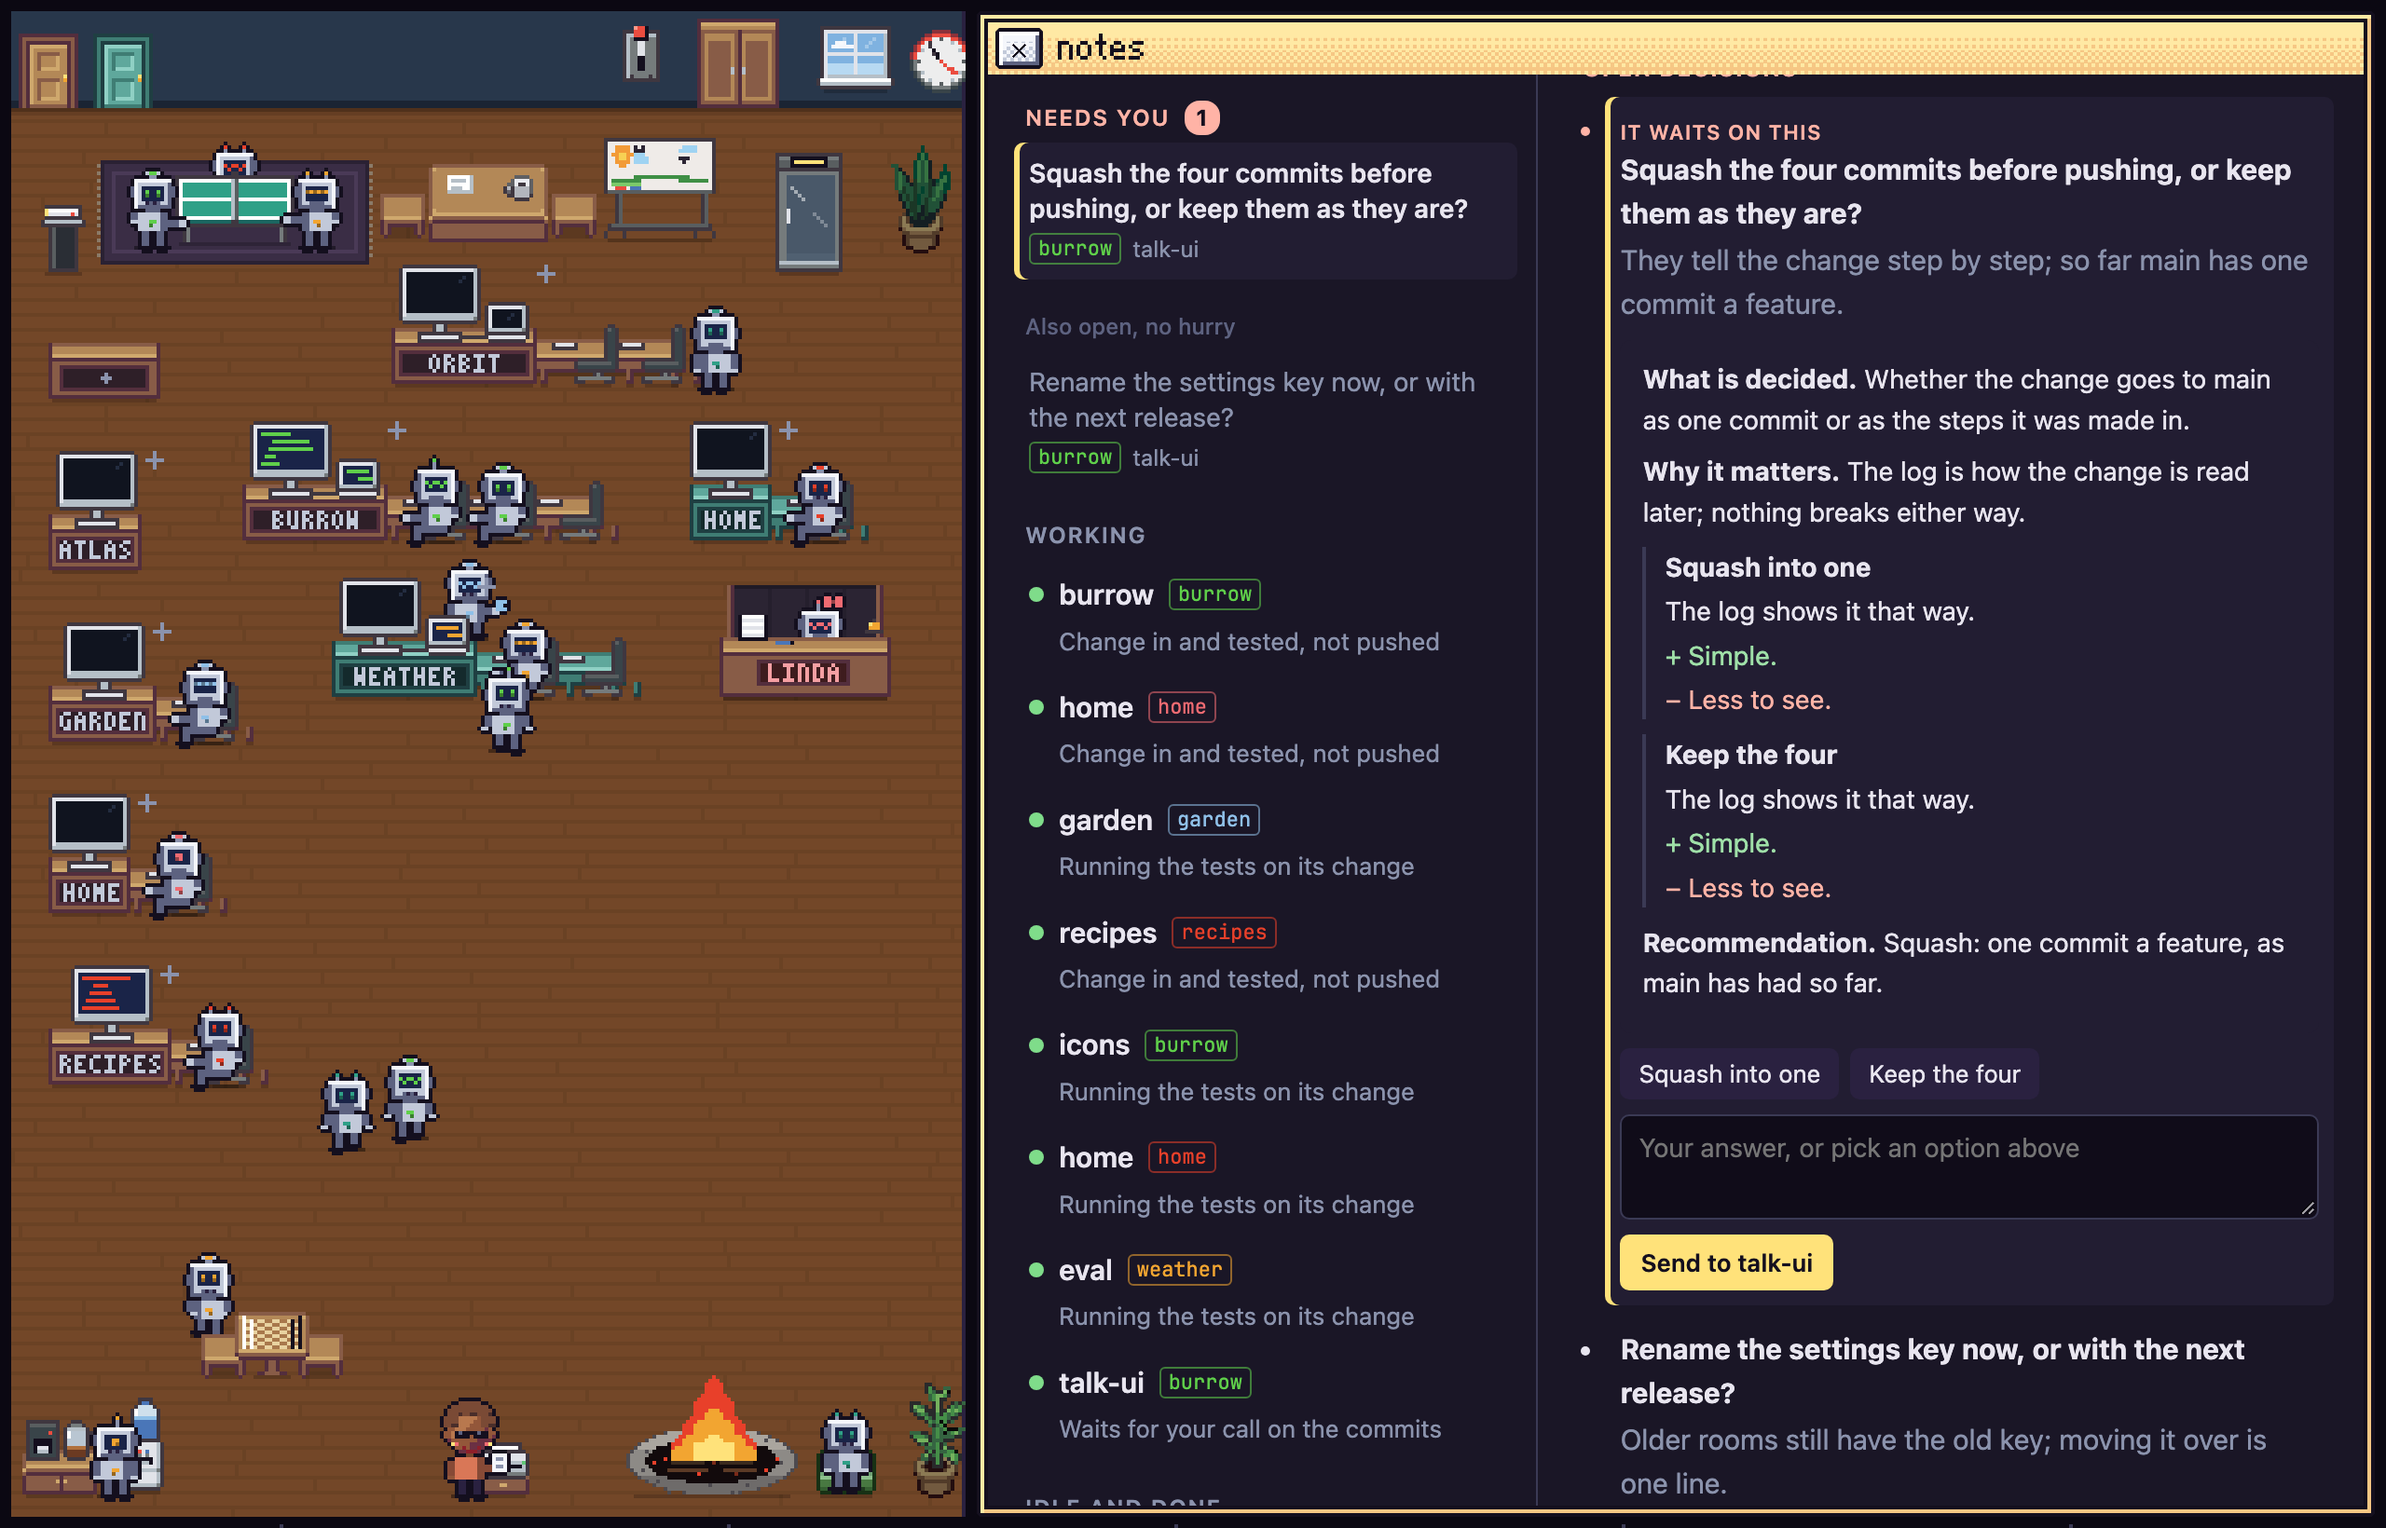
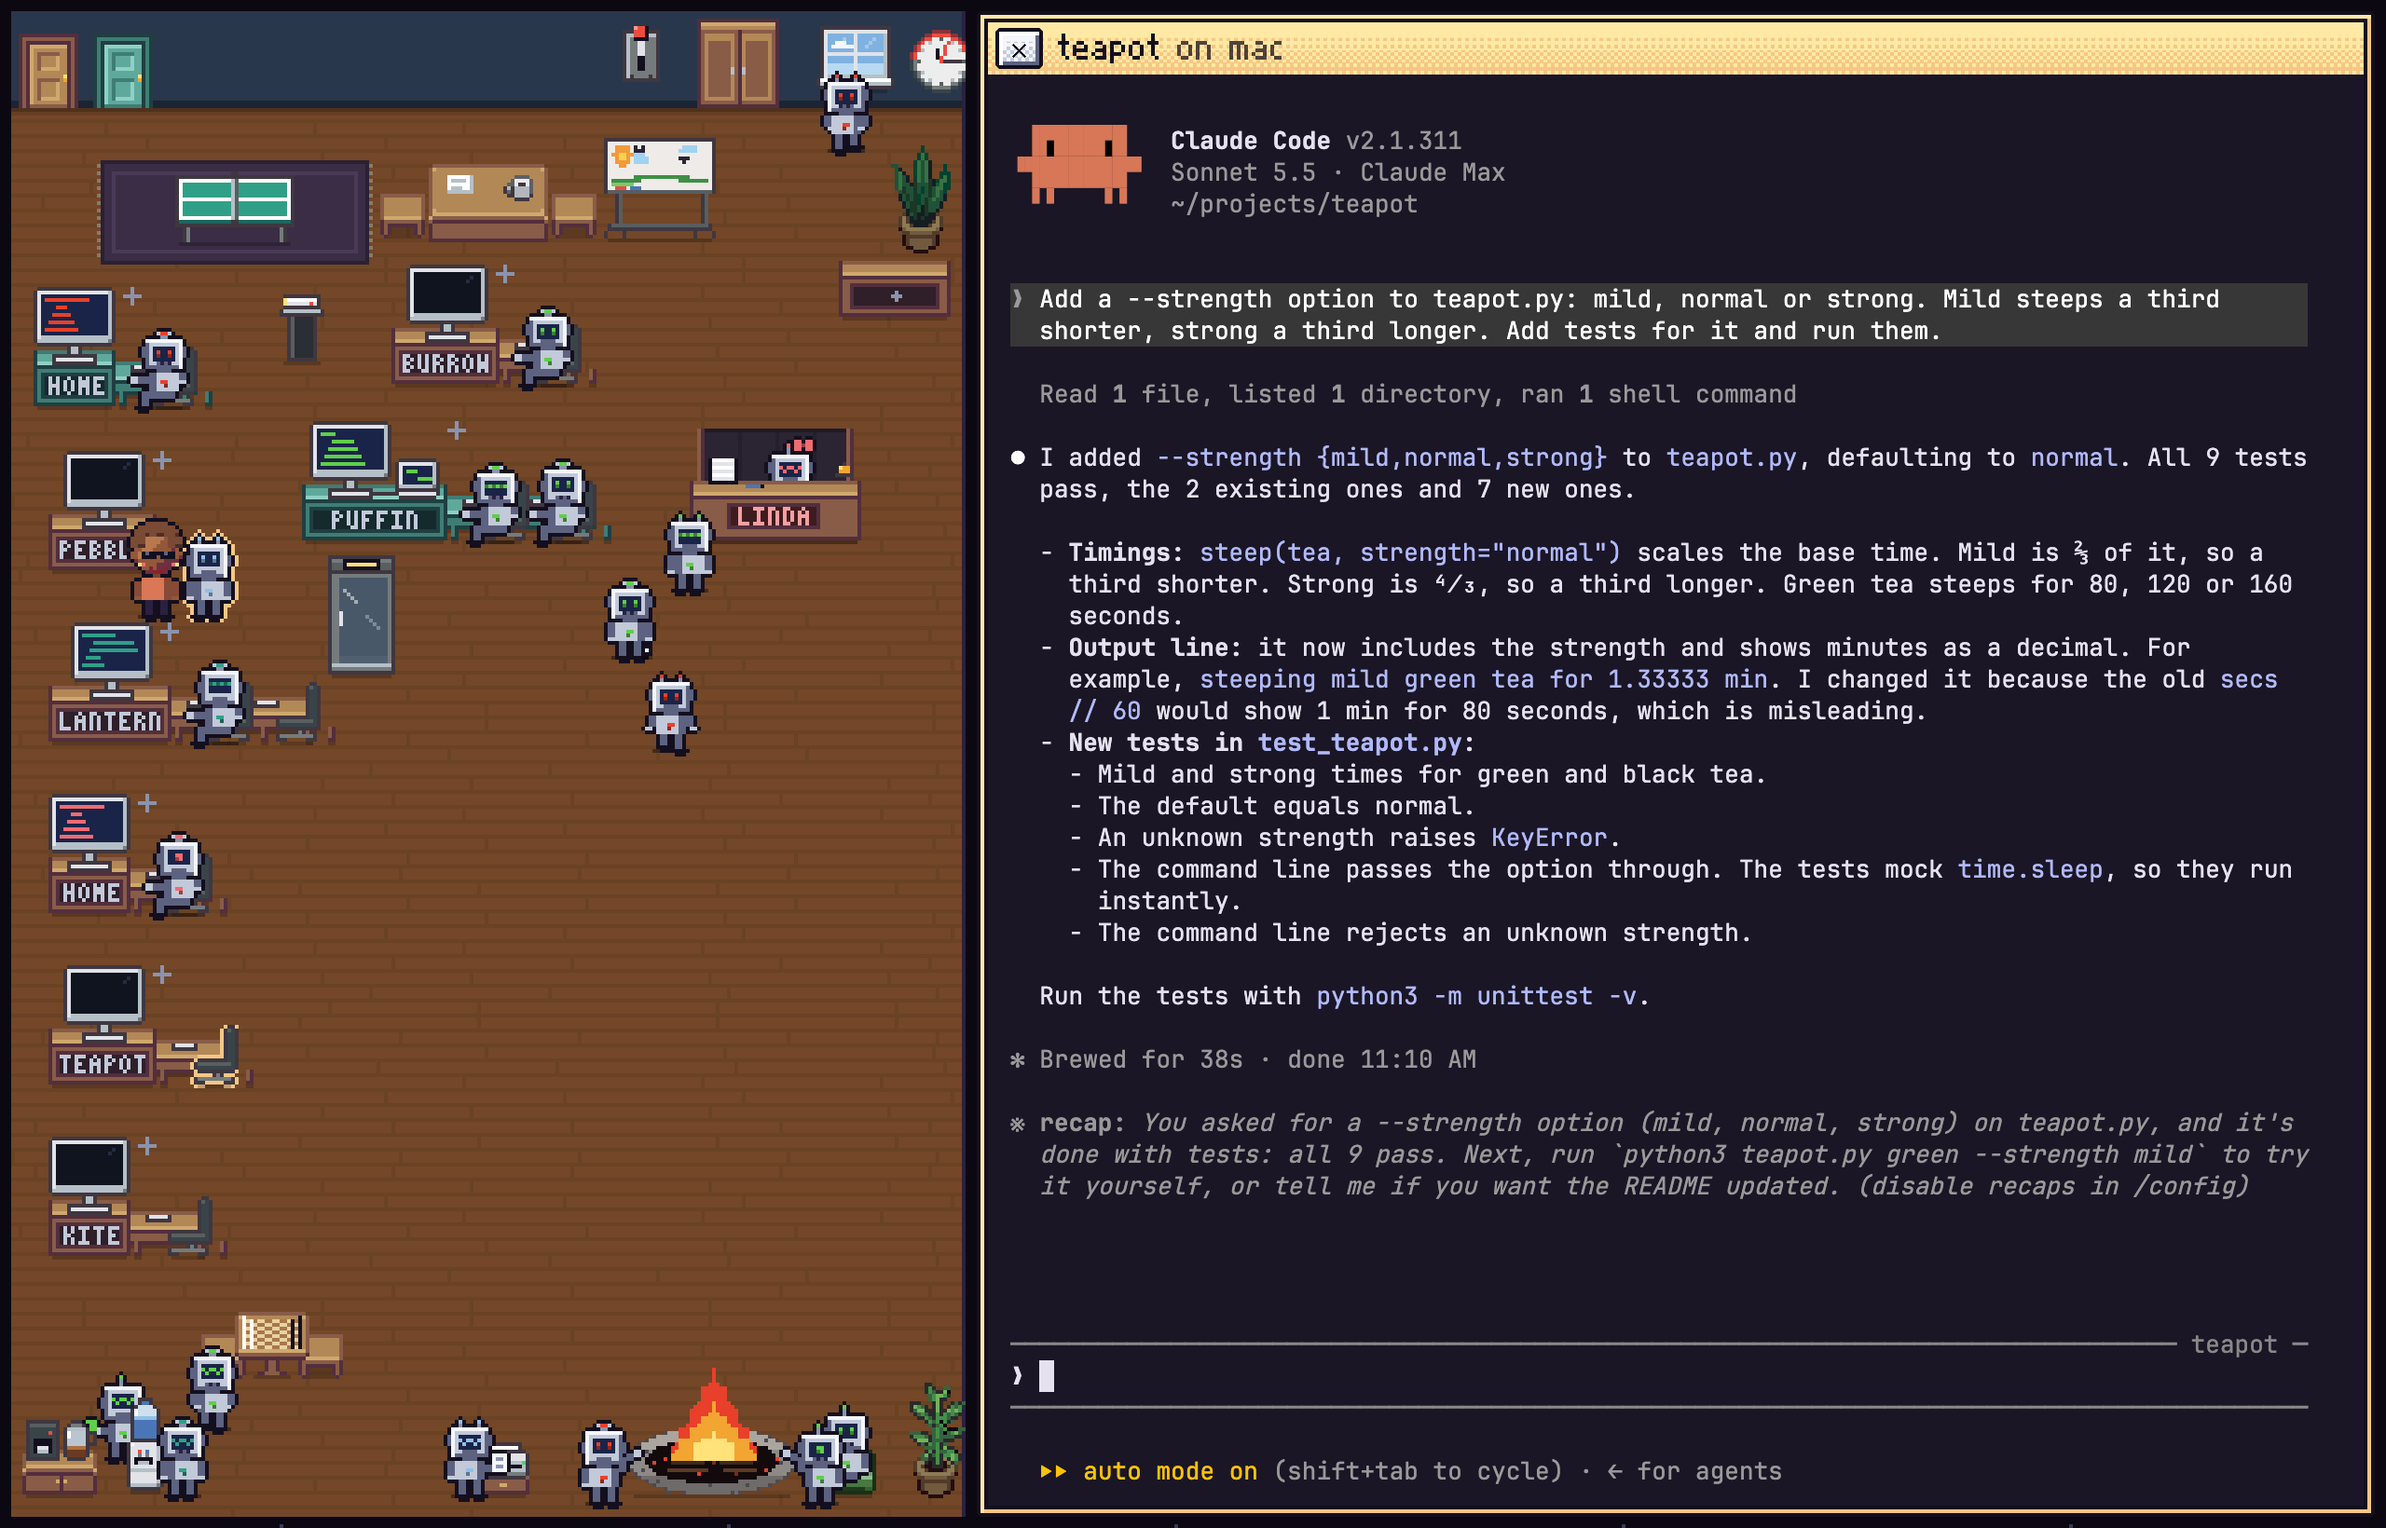
The README's first picture is a plain Claude Code session beside the room, not the notes. The demo's names are checked against all three machines now: atlas was a project on another machine of the user's, so the demo's projects are kite, teapot, lantern, pebble and puffin, and two finished sessions 
Claude-Session: https://claude.ai/code/session_015GCqgrD6qfPkBJ7zH8rBEX

diff --git a/web/burrow.css b/web/burrow.css
@@ -58,7 +58,9 @@ button, input, select { font:inherit; color:inherit; }
 .resizing-row, .resizing-row * { cursor:col-resize !important; }   /* a gap being dragged: the cursor stays, the terminals under it are left alone */
 .resizing-col, .resizing-col * { cursor:row-resize !important; }
 .resizing-row .tile, .resizing-col .tile { pointer-events:none; user-select:none; }
-.term { flex:1; min-height:0; padding:10px 12px 8px 12px; }   /* the text keeps off the ring (the fit addon takes the padding off) */
+/* the text keeps off the ring. Content-box: the fit addon takes this box's computed size as the room the terminal has
+   (with border-box that included the padding, and the last row and a column or two went under the edge) */
+.term { flex:1; min-height:0; padding:10px 12px 8px 12px; box-sizing:content-box; }
 .term .xterm-viewport { background:transparent !important; }
 .term .xterm-viewport::-webkit-scrollbar { width:8px; }
 .term .xterm-viewport::-webkit-scrollbar-thumb { background:var(--ink2); }

diff --git a/web/server.py b/web/server.py
@@ -27,6 +27,8 @@ CACHE = os.path.join(HOME, ".cache/burrow")
 DEMO = bool(os.environ.get("BURROW_DEMO"))
 DEMO_GONE = set()                              # the demo's doors taken out (it never writes the settings)
 DEMO_ADDED = []                                # and the ones hung up from the closet
+# a real session of this computer behind a demo bot's terminal, for pictures: BURROW_DEMO_REAL=demo0005=<session id>
+DEMO_REAL = dict(x.split("=", 1) for x in os.environ.get("BURROW_DEMO_REAL", "").split(",") if "=" in x)
 PORT = int(os.environ.get("BURROW_PORT", "7777"))
 HOSTNAME = subprocess.run(["hostname", "-s"], capture_output=True, text=True).stdout.strip() or "here"
 USER = getpass.getuser()                       # you, in the room: the name unless room.json has one
@@ -626,7 +628,7 @@ def load_room():
     if DEMO:                                 # made up, or a copy of a real room.json to try things on (never saved)
         if os.environ.get("BURROW_DEMO_ROOM"):
             return furnish({"desks": [], "layout": {}, **json.load(open(os.environ["BURROW_DEMO_ROOM"]))})
-        return furnish({"desks": [HOME + "/projects/atlas"], "layout": {}})
+        return furnish({"desks": [HOME + "/projects/pebble"], "layout": {}})
     try:
         return furnish({"desks": [], "layout": {}, **json.load(open(ROOM))})
     except Exception:
@@ -1530,10 +1532,10 @@ class Hub:
 
     def demo(self, mid, poke):
         i = list(self.machines).index(mid)
-        bots = [("burrow", "burrow"), ("burrow", "talk-ui"), ("burrow/.claude/worktrees/icons", "icons"), ("orbit", "orbit"),
-                ("orbit/.claude/worktrees/moons", "moons"), ("recipes", "recipes"), ("", "home"), ("garden", "garden")]
+        bots = [("burrow", "burrow"), ("burrow", "talk-ui"), ("burrow/.claude/worktrees/icons", "icons"), ("kite", "kite"),
+                ("kite/.claude/worktrees/tails", "tails"), ("teapot", "teapot"), ("", "home"), ("lantern", "lantern")]
         if i == 1:
-            bots = [("weather", "weather"), ("weather/.claude/worktrees/eval", "eval"), ("", "home")]
+            bots = [("puffin", "puffin"), ("puffin/.claude/worktrees/eval", "eval"), ("", "home")]
         self.usage = {"session": {"used": 64, "resets": "3:20pm"}, "week": {"used": 23, "resets": "Oct 24 at 9am"}}
         now = int(time.time() * 1000)
         bots = [{"id": f"demo{i}{k:03}", "name": n, "cwd": f"{HOME}/projects/{d}" if d else HOME, "busy": k % 3 == 0, "waiting": k % 5 == 1,
@@ -1542,10 +1544,10 @@ class Hub:
                 for k, (d, n) in enumerate(bots)]
         bots[-1].update(alive=False, busy=True, state="working", pid=0)      # a /loop between runs: its process is off
         # and some that are over: done, failed, stopped, as agent view's Completed group
-        over = [("burrow", "tidy-tess", "done", "the booth built and tested"), ("orbit", "zany-zoe", "failed", "a moon got out of its orbit"),
-                ("recipes", "posh-pam", "stopped", ""), ("burrow", "merry-max", "done", "README brought up to date"), ("garden", "lucky-lou", "done", "the planting calendar rebuilt")]
+        over = [("burrow", "sunny-sam", "done", "the booth built and tested"), ("kite", "zany-zoe", "failed", "the string snapped in the wind test"),
+                ("teapot", "posh-pam", "stopped", ""), ("burrow", "merry-max", "done", "README brought up to date"), ("lantern", "jolly-jo", "done", "the docs rebuilt")]
         if i == 1:
-            over = [("weather", "nimble-ned", "done", "forecast run 12 scored, the report in out/"), ("weather", "witty-wes", "failed", "CUDA out of memory on the big batch")]
+            over = [("puffin", "nimble-ned", "done", "run 12 scored, the report in out/"), ("puffin", "witty-wes", "failed", "CUDA out of memory on the big batch")]
         bots += [{"id": f"demo{i}over{k}", "name": n, "cwd": f"{HOME}/projects/{d}", "busy": False, "waiting": False, "alive": False, "state": st,
                   "over": st, "endedAt": now - 1800000 * (k + 1), "detail": det, "started": now - 1800000 * (k + 3), "pid": 0, "session": f"demo{i}o{k}", "rc": ""}
                  for k, (d, n, st, det) in enumerate(over)]
@@ -2158,6 +2160,8 @@ class Handler(BaseHTTPRequestHandler):
         m = hub.machines.get(q.get("m", ""))
         if DEMO and REAL_OFFICE and q.get("id") and q["id"] in {m.get("id") for m in (hub.room.get("managers") or {}).values()}:
             m = LOCAL                          # the demo's office manager is real
+        if DEMO and not shell and q.get("id") in DEMO_REAL:
+            m, q = LOCAL, {**q, "id": DEMO_REAL[q["id"]]}
         if not m:
             return self.reply(404, {"error": "no such machine"})
         if not key or not q.get("dir" if shell else "id"):

diff --git a/CLAUDE.md b/CLAUDE.md
@@ -1658,17 +1658,32 @@ long one of "README with pictures".
 - **The demo was not his-free**: it read his real notes (`digest.json`; a desk's paragraph is keyed by directory, and
   the demo's `~/projects/burrow` is his), its projects were four real folders of his (romuald, hexant, football,
   website), its second machine was named odyssey. Now `load_digest()` is empty in the demo (demo_notes makes them
-  up), the projects are made up (orbit, recipes, garden, atlas, weather; burrow stays, it is this repo), the machine
-  is "lab", and the made-up notes no longer ask about the bench. Still real in the demo: `~` itself (its paths show
-  as `~/…`), the login name (YOU panel only), `~/.ssh/config` and Claude Code's recent directories in the forms.
+  up), the projects are made up, the machine is "lab", and the made-up notes no longer ask about the bench. Still
+  real in the demo: `~` itself (its paths show as `~/…`), the login name (YOU panel only), `~/.ssh/config` and
+  Claude Code's recent directories in the forms.
+- **Made-up is not enough**: he, at once: "You put atlas on the readme?? I said don't put antyhing personal there???"
+  odyssey has `~/super-atlas`; I had checked the names against this Mac's `~/projects` only. The demo's names are
+  now kite, teapot, lantern, pebble, puffin (and burrow), checked against `ls ~ ~/projects ~/.claude/projects` on all
+  three machines (ssh, read-only); tidy-tess and lucky-lou, real sessions of his, are sunny-sam and jolly-jo. Check
+  every name that goes into a picture the same way.
 - **The notes named the home desk after the user** (the folder's last name): `deskName` now says "home", as the
   room's `projectLabel` does.
-- **The pictures** (1280 x 820 through look.mjs, demo on its own port): the hero is the room with Linda's notes
-  open on a waiting session, its decision explained (a real session's tile would show Claude Code's own header with
-  the account); `room.png` the top of the room at device pixels (`clip`), staged: a `waiting` forced on a bot (the
-  defineProperty trick), a nap (`act {kind: "sleep"}`), you kept aside by an interval, `room.talk` fired 0.38 s
-  before each of six shots and the best one kept (a beam is a dash in flight); the closet and the limits are the
-  `#view` panel clipped (`clipTo` its rect).
+- **Every terminal was 18 px too tall and 24 px too wide** (seen in the hero: Claude Code's status line half under the
+  tile's edge). `* { box-sizing: border-box }` made `.term`'s computed size include its padding, and the fit addon
+  takes the parent's computed size and subtracts only the `.xterm` element's own padding (0). `.term` is
+  `box-sizing: content-box` now; measured: the screen ends 10 px inside the tile at the bottom, 29 px at the right.
+  (The 2026-10-24 note "the fit addon takes it off the parent's size, so nothing is cut" was wrong since then.)
+- **The pictures** (1280 x 820 through look.mjs, demo on its own port). The hero is a plain Claude Code session in a
+  tile ("Do not use the notes as the first printscreen, that's already very specialized. Show a simple claude code
+  session"): `BURROW_DEMO_REAL=demo0005=<id>` puts a real session of this computer behind the demo's teapot bot. The
+  session was a throwaway in a made-up `~/projects/teapot` (a tea timer, no git; `.claude/settings.json` with
+  `worktree.bgIsolation: none`, or its first line is a red "Cannot create a worktree"), started with the `CLAUDE_*`
+  variables of the calling session unset (inherited, they turn its transcript saving off), asked for one small
+  change; its header shows version, model, plan and `~/projects/teapot`, no name or email. Stopped and removed after
+  (`claude stop`, `claude rm`, its folder and transcript deleted). `room.png` is the top of the room at device pixels
+  (`clip`), staged: a `waiting` forced on a bot (the defineProperty trick), a nap (`act {kind: "sleep"}`), you kept
+  aside by an interval, `room.talk` fired 0.38 s before each of six shots and the best one kept (a beam is a dash in
+  flight); the closet and the limits are the `#view` panel clipped (`clipTo` its rect).
 
 ## Next
 

diff --git a/README.md b/README.md
@@ -2,7 +2,7 @@
 
 A room for your Claude Code sessions.
 
-![burrow: the room, and the office manager's notes beside it](docs/burrow.png)
+![burrow: the room, and a session open beside it](docs/burrow.png)
 
 Every Claude Code session running in the background on your machines is a robot in one 16-bit office.
 Where a robot is and what it does is what its session is doing; what you do to a robot happens to its
@@ -30,7 +30,7 @@ whiteboard. You furnish it, and keeping it tidy is yours: a full room is a full 
 
 ## The room
 
-![a desk at work: robots typing, one with a question, a message beamed across, a nap](docs/room.png)
+![the room: robots typing, one with a question, a message beamed across, a game of ping-pong](docs/room.png)
 
 At its desk and typing, a robot is working; with its hand up and a `?` it needs you; anywhere else it is
 idle. A finished session stays in the room, idle, until you delete it; opening it picks it up where it left
